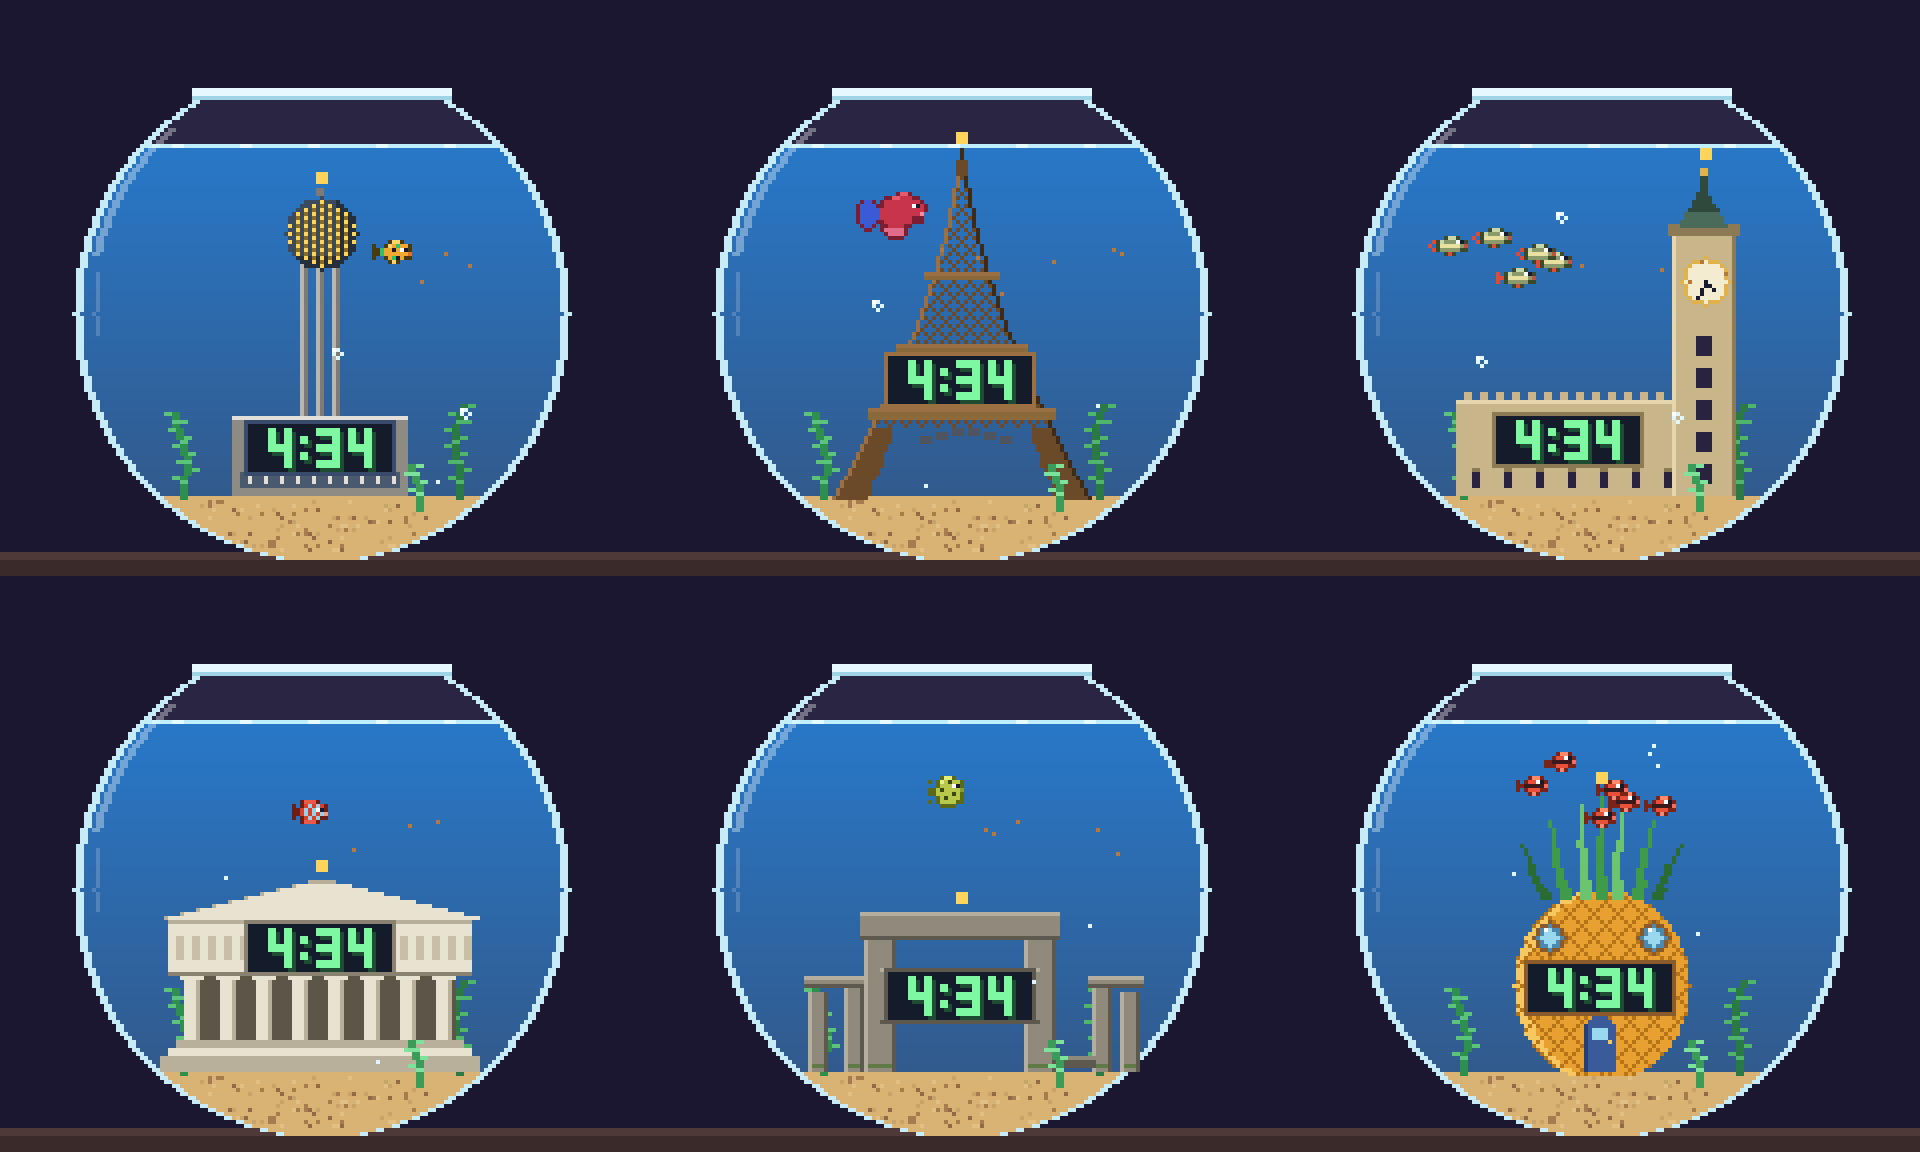
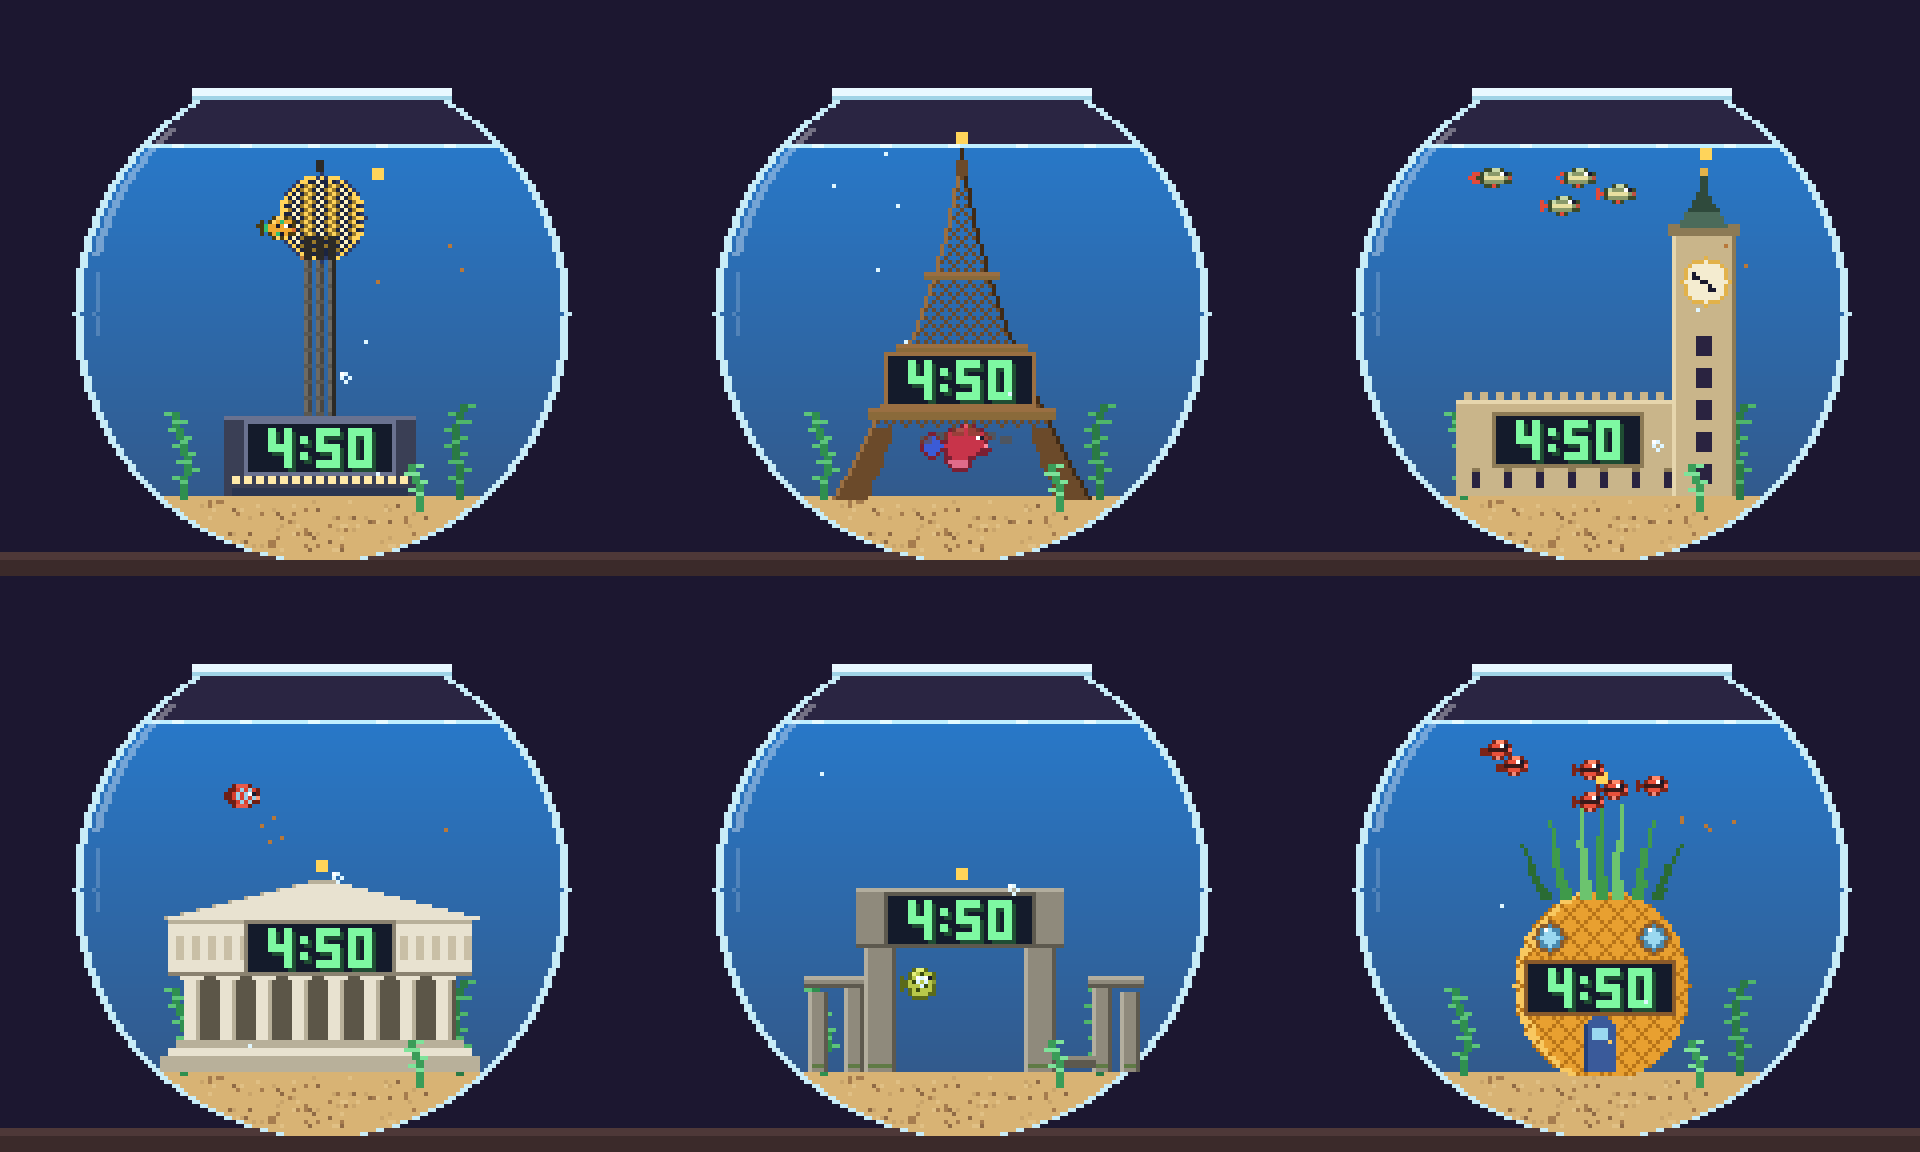
feat: Reunion Tower redrawn from photo; fish swim through open structures (#7)
- Reunion Tower: larger geodesic ball with a dense triangular lamp net,
  three slim dark columns running up into it, lit low base with the clock
- Structure.passages: Eiffel arch + gap under Stonehenge's (now deeper,
  clock-bearing) lintel; AI targets a passage ~35% of retargets, school
  drawn behind so the edges frame the fish
- Layer switching now tests the sprite box against a per-structure pixel
  occupancy mask instead of the bounding box (Eiffel box covered most of
  the bowl, fish was rarely 'clear')
- Canvas test renders each structure and asserts passages are empty pixels
- README/PLAN updated, gallery re-rendered

diff --git a/src/canvas/structures.ts b/src/canvas/structures.ts
@@ -11,6 +11,11 @@ export interface Structure {
   id: StructureId;
   /** Rectangle the fish treats as "the structure" for layer switching. */
   bounds: Box;
+  /**
+   * Open spaces inside the structure (an arch, a gap between stones) that the fish is
+   * invited to swim through. Drawn "behind" the structure so the edges frame it.
+   */
+  passages?: Box[];
   draw(ctx: CanvasRenderingContext2D, now: Date, fmt: TimeFormat): void;
 }
 
@@ -21,28 +26,43 @@ const clockBox = (y: number, x = CX - CLOCK_W / 2): Box => ({ x, y, w: CLOCK_W, 
 // ---------------------------------------------------------------- Reunion Tower (Dallas)
 const reunionTower: Structure = {
   id: "reunionTower",
-  bounds: { x: 58, y: 48, w: 44, h: 76 },
+  bounds: { x: 56, y: 42, w: 48, h: 82 },
   draw(ctx, now, fmt) {
-    const C = { concrete: "#b9b6b0", concreteD: "#7e7b76", concreteL: "#e2dfd8", ball: "#3b4a5c", ballD: "#26303d", led: "#ffd45a", ledDim: "#8a6c1e", base: "#8e8a84", glassBase: "#4a5a6e" };
-    // plaza base (clock lives here)
-    rect(ctx, 58, 104, 44, SAND_Y - 104, C.base);
-    rect(ctx, 58, 104, 44, 1, C.concreteL);
-    rect(ctx, 60, 118, 40, 4, C.glassBase);
-    for (let x = 62; x < 100; x += 4) rect(ctx, x, 119, 1, 2, C.concreteL);
-    // three concrete columns
-    for (const x of [75, 79, 83]) {
-      rect(ctx, x, 64, 2, 40, C.concrete);
-      rect(ctx, x + 1, 64, 1, 40, C.concreteD);
+    const C = {
+      shaft: "#4a4640", shaftL: "#6e6a62", shaftD: "#2c2a26", band: "#5c5850",
+      ball: "#1b2440", ballEdge: "#2c3a66", lamp: "#fff3c2", lampGold: "#ffd45a", lampDim: "#9a7a2a",
+      base: "#3a3f55", baseL: "#6a7290", win: "#ffe9a8", winDim: "#8a7a50", glass: "#2a3550",
+    };
+    // low hotel/convention base — the clock lives in its facade
+    rect(ctx, 56, 104, 48, SAND_Y - 104, C.base);
+    rect(ctx, 56, 104, 48, 1, C.baseL);
+    for (let x = 58; x < 102; x += 3) rect(ctx, x, 119, 2, 2, (x / 3) % 2 ? C.win : C.winDim); // lit windows
+    rect(ctx, 58, 122, 44, 2, C.glass);
+    // three slender columns, close together, with horizontal banding
+    const cols = [76, 79, 82];
+    const shaftTop = 56;
+    for (const x of cols) {
+      rect(ctx, x, shaftTop, 2, 104 - shaftTop, C.shaft);
+      rect(ctx, x, shaftTop, 1, 104 - shaftTop, C.shaftL);
+      for (let y = shaftTop + 3; y < 104; y += 4) rect(ctx, x, y, 2, 1, C.band);
     }
-    // the ball: dark sphere with a lattice of lit points
-    const bx = CX, by = 58, r = 9;
+    rect(ctx, cols[2] + 1, shaftTop, 1, 104 - shaftTop, C.shaftD);
+    // the ball: a dark sphere wrapped in a geodesic net of warm lamps
+    const bx = CX, by = 54, r = 11;
     disc(ctx, bx, by, r, C.ball);
-    disc(ctx, bx, by, r, C.ballD, (x, y) => x > bx + 3 || y > by + 5);
-    disc(ctx, bx, by, r, C.led, (x, y) => (x + 2 * y) % 4 === 0 && Math.hypot(x - bx, y - by) < r - 0.5);
-    disc(ctx, bx, by, r, C.ledDim, (x, y) => (x + 2 * y) % 4 === 2 && Math.hypot(x - bx, y - by) < r - 1.5);
-    rect(ctx, bx - 1, by - r - 2, 2, 2, C.concreteD); // antenna stub
-    const meridiem = drawClockPanel(ctx, clockBox(106), now, fmt);
-    drawMeridiemPip(ctx, bx, by - r - 5, meridiem, C.ballD);
+    disc(ctx, bx, by, r, C.ballEdge, (x, y) => Math.hypot(x - bx, y - by) > r - 1.2);
+    // lamp net: a dense triangular lattice (3px pitch, every other row staggered) like the real geodesic frame
+    const lattice = (x: number, y: number) => ((y - by) % 2 === 0 ? (x - bx + 300) % 3 === 0 : (x - bx + 301) % 3 === 0);
+    disc(ctx, bx, by, r, C.lamp, (x, y) => lattice(x, y) && Math.hypot(x - bx, y - by) < r - 0.5);
+    disc(ctx, bx, by, r, C.lampGold, (x, y) => lattice(x, y) && (x + y) % 2 === 1 && Math.hypot(x - bx, y - by) < r - 0.5);
+    disc(ctx, bx, by, r, C.lampDim, (x, y) => !lattice(x, y) && (x + y) % 2 === 0 && Math.hypot(x - bx, y - by) < r - 2);
+    // edge lamps so the silhouette sparkles
+    disc(ctx, bx, by, r, C.lampGold, (x, y) => { const d = Math.hypot(x - bx, y - by); return d > r - 1.2 && (x + y) % 2 === 0; });
+    // columns continue up into the lower part of the ball
+    for (const x of cols) rect(ctx, x, by + 5, 2, r - 5, C.shaftD);
+    rect(ctx, bx - 1, by - r - 3, 2, 3, C.shaftD); // mast
+    const meridiem = drawClockPanel(ctx, clockBox(106), now, fmt, C.baseL);
+    drawMeridiemPip(ctx, bx + r + 3, by - r, meridiem, "#1c1730");
   },
 };
 
@@ -50,6 +70,7 @@ const reunionTower: Structure = {
 const eiffelTower: Structure = {
   id: "eiffelTower",
   bounds: { x: 48, y: 40, w: 64, h: 84 },
+  passages: [{ x: 64, y: 108, w: 32, h: 14 }], // the open arch between the legs
   draw(ctx, now, fmt) {
     const C = { iron: "#6b4a2a", ironL: "#9a6f42", ironD: "#3f2a16", deck: "#8a6a3a" };
     const top = 44, bottom = SAND_Y;
@@ -173,7 +194,8 @@ const parthenon: Structure = {
 // ---------------------------------------------------------------- Stonehenge (Wiltshire)
 const stonehenge: Structure = {
   id: "stonehenge",
-  bounds: { x: 42, y: 80, w: 76, h: 44 },
+  bounds: { x: 40, y: 78, w: 80, h: 46 },
+  passages: [{ x: 65, y: 94, w: 30, h: 28 }], // between the two big uprights
   draw(ctx, now, fmt) {
     const C = { stone: "#8f8a7c", stoneL: "#b3ae9e", stoneD: "#5d594e", moss: "#5f7a45" };
     const upright = (x: number, top: number, w: number) => {
@@ -192,12 +214,11 @@ const stonehenge: Structure = {
     upright(113, 102, 5); upright(120, 104, 5); lintel(112, 100, 14, 3);
     // fallen stone
     rect(ctx, 104, 120, 10, 3, C.stoneD); rect(ctx, 104, 120, 10, 1, C.stone);
-    // central trilithon — the clock is carved into a flat altar stone between the uprights
-    upright(56, 90, 8); upright(96, 90, 8);
-    lintel(55, 84, 50, 7);
-    lintel(60, 98, 40, 14); // altar stone
-    const meridiem = drawClockPanel(ctx, clockBox(99), now, fmt, C.stoneD);
-    drawMeridiemPip(ctx, CX, 80, meridiem, "#1c1730");
+    // central trilithon — wide open underneath; the clock is carved into a deep lintel
+    upright(56, 92, 8); upright(96, 92, 8);
+    lintel(54, 78, 52, 15);
+    const meridiem = drawClockPanel(ctx, clockBox(80), now, fmt, C.stoneD);
+    drawMeridiemPip(ctx, CX, 74, meridiem, "#1c1730");
   },
 };
 

diff --git a/src/canvas/engine.ts b/src/canvas/engine.ts
@@ -73,6 +73,9 @@ export class FishEngine {
   private gravel: { x: number; y: number; c: string }[] = [];
   private dirtSpecks: { x: number; y: number; ph: number }[] = [];
   private cleanFlash = 0;
+  /** 1 = a painted structure pixel. Built per structure; what "overlaps the structure" really means. */
+  private mask = new Uint8Array(W * H);
+  private maskFor: StructureId | null = null;
 
   constructor(canvas: HTMLCanvasElement) {
     canvas.width = W; canvas.height = H;
@@ -98,6 +101,17 @@ export class FishEngine {
     const speciesChanged = i.species !== this.inputs.species;
     this.inputs = i;
     if (speciesChanged) this.spawnSchool(i.species);
+    if (this.maskFor !== i.structure) this.buildMask(i.structure);
+  }
+
+  /** Render the structure alone and keep its alpha as an occupancy mask (the next frame overwrites the canvas anyway). */
+  private buildMask(id: StructureId) {
+    const ctx = this.ctx;
+    ctx.clearRect(0, 0, W, H);
+    STRUCTURE_REGISTRY[id].draw(ctx, new Date(), this.inputs.timeFormat);
+    const data = ctx.getImageData(0, 0, W, H).data;
+    for (let i = 0; i < W * H; i++) this.mask[i] = data[i * 4 + 3] > 0 ? 1 : 0;
+    this.maskFor = id;
   }
 
   /** (Re)create the fish for a species — one leader plus followers if it schools. */
@@ -172,12 +186,17 @@ export class FishEngine {
     }
     return [BOWL.cx, BOWL.cy];
   }
-  /** True if any fish in the school touches the structure's bounds (so the layer never pops mid-structure). */
+  /** True if any fish in the school sits over a painted structure pixel (so a layer flip never pops). */
   private overlapsStructure(): boolean {
-    const b = STRUCTURE_REGISTRY[this.inputs.structure].bounds;
+    if (this.maskFor !== this.inputs.structure) this.buildMask(this.inputs.structure);
     const fr = this.sprite.frames[0];
     const fw = spriteWidth(fr), fh = spriteHeight(fr);
-    return this.fishes.some((f) => f.x + fw / 2 > b.x && f.x - fw / 2 < b.x + b.w && f.y + fh / 2 > b.y && f.y - fh / 2 < b.y + b.h);
+    return this.fishes.some((f) => {
+      const x0 = Math.max(0, Math.floor(f.x - fw / 2) - 1), x1 = Math.min(W - 1, Math.ceil(f.x + fw / 2) + 1);
+      const y0 = Math.max(0, Math.floor(f.y - fh / 2) - 2), y1 = Math.min(H - 1, Math.ceil(f.y + fh / 2) + 2);
+      for (let y = y0; y <= y1; y++) for (let x = x0; x <= x1; x++) if (this.mask[y * W + x]) return true;
+      return false;
+    });
   }
 
   private update(dt: number) {
@@ -201,10 +220,25 @@ export class FishEngine {
       f.retargetIn -= dt;
       const arrived = Math.hypot(f.tx - f.x, f.ty - f.y) < 4;
       if (f.retargetIn <= 0 || arrived) {
-        [f.tx, f.ty] = this.randomTarget();
-        f.retargetIn = dashing ? rand(0.6, 1.2) : rand(2.5, 6);
-        // Decide layer only when the whole school is clear of the structure so it never pops.
-        if (!this.overlapsStructure()) for (const s of this.fishes) s.layer = Math.random() < 0.45 ? "behind" : "front";
+        const clear = !this.overlapsStructure();
+        const passages = STRUCTURE_REGISTRY[this.inputs.structure].passages;
+        const fr = this.sprite.frames[0];
+        const fw = spriteWidth(fr), fh = spriteHeight(fr);
+        // Open structures: about a third of the time, swim through an opening (always drawn behind
+        // the structure so its edges frame the fish). Only when the school is clear or already behind, so it never pops.
+        const allBehind = this.fishes.every((s) => s.layer === "behind");
+        const through = passages?.length && (clear || allBehind) && !dashing && Math.random() < 0.35
+          ? passages[Math.floor(Math.random() * passages.length)] : null;
+        if (through && through.w >= fw && through.h >= fh) {
+          f.tx = rand(through.x + fw / 2, through.x + through.w - fw / 2);
+          f.ty = rand(through.y + fh / 2, through.y + through.h - fh / 2);
+          f.retargetIn = rand(3, 6);
+          for (const s of this.fishes) s.layer = "behind";
+        } else {
+          [f.tx, f.ty] = this.randomTarget();
+          f.retargetIn = dashing ? rand(0.6, 1.2) : rand(2.5, 6);
+          if (clear) for (const s of this.fishes) s.layer = Math.random() < 0.45 ? "behind" : "front";
+        }
       }
     }
     // Followers aim at their slot beside the leader (with a little wobble so the school breathes).

diff --git a/src/canvas/__tests__/structures.test.ts b/src/canvas/__tests__/structures.test.ts
@@ -1,0 +1,24 @@
+import { describe, expect, test } from "bun:test";
+import { createCanvas } from "@napi-rs/canvas";
+import { STRUCTURE_REGISTRY } from "../structures";
+import { STRUCTURES } from "../../game/catalog";
+
+const paintedShare = (id: keyof typeof STRUCTURE_REGISTRY, box: { x: number; y: number; w: number; h: number }) => {
+  const c = createCanvas(160, 144);
+  const ctx = c.getContext("2d") as unknown as CanvasRenderingContext2D;
+  STRUCTURE_REGISTRY[id].draw(ctx, new Date(2026, 0, 1, 10, 30), "12h");
+  const px = (ctx as unknown as { getImageData(x: number, y: number, w: number, h: number): { data: Uint8ClampedArray } }).getImageData(box.x, box.y, box.w, box.h).data;
+  let painted = 0;
+  for (let i = 3; i < px.length; i += 4) if (px[i] > 0) painted++;
+  return painted / (px.length / 4);
+};
+
+describe("structure rendering", () => {
+  test("declared passages are really open (≤10% painted); every structure paints inside its bounds", () => {
+    for (const s of STRUCTURES) {
+      const st = STRUCTURE_REGISTRY[s.id];
+      for (const p of st.passages ?? []) expect(paintedShare(s.id, p)).toBeLessThanOrEqual(0.1);
+      expect(paintedShare(s.id, st.bounds)).toBeGreaterThan(0.15);
+    }
+  });
+});

diff --git a/src/game/__tests__/tank.test.ts b/src/game/__tests__/tank.test.ts
@@ -82,3 +82,20 @@ describe("storage", () => {
     expect(isStructureId("castle")).toBe(true);
   });
 });
+
+describe("passages", () => {
+  test("open structures declare passages inside their bounds, big enough for a goldfish", () => {
+    for (const id of ["eiffelTower", "stonehenge"] as const) {
+      const { bounds: b, passages } = STRUCTURE_REGISTRY[id];
+      expect(passages?.length).toBeGreaterThan(0);
+      for (const p of passages!) {
+        expect(p.x).toBeGreaterThanOrEqual(b.x);
+        expect(p.x + p.w).toBeLessThanOrEqual(b.x + b.w);
+        expect(p.y).toBeGreaterThanOrEqual(b.y);
+        expect(p.y + p.h).toBeLessThanOrEqual(b.y + b.h);
+        expect(p.w).toBeGreaterThanOrEqual(16);
+        expect(p.h).toBeGreaterThanOrEqual(10);
+      }
+    }
+  });
+});

diff --git a/README.md b/README.md
@@ -67,14 +67,15 @@ src/
 - **Decay** (per real hour): Full −6, Happy −4, Clean −2.5. Full → empty ≈ 16 h.
 - **Actions**: Feed +28 full · Play +24 happy · Clean +40 clean (with small side effects and 6/10/15 s cooldowns, enforced in state, not just the UI).
 - **Mood** is derived from stats, never stored: sad → dirty → hungry → bored → sleepy → content.
-- The fish picks random waypoints inside the water, chases food when you feed it, and switches between swimming **behind** and **in front of** the structure only when it's clear of it (so it never pops).
+- The fish picks random waypoints inside the water, chases food when you feed it, and switches between swimming **behind** and **in front of** the structure only when none of its pixels sit over a painted structure pixel (the engine keeps an occupancy mask per structure), so it never pops.
+- **Open structures have passages.** The Eiffel Tower's arch and the gap under Stonehenge's lintel are declared as `passages`; about a third of the time the fish (or the whole school) deliberately swims through one, drawn behind the structure so the edges frame it. A test renders each structure and checks the passages really are empty pixels.
 - **Species flavor** is light on purpose: a speed multiplier (Betta 0.75× … Endler 1.35×) and a school size (Chili Rasbora ×6, White Cloud ×5 — followers trail a leader that runs the normal AI). Decay, actions and moods are identical for every species; moods tint each species' own palette instead of recolouring it orange.
 - **Structures** are drawn procedurally and all stand on the sand with the same 36×12 clock panel in their lower half, so the time is always in the same place regardless of what's above it.
 
 ## Adding a structure or a fish
 
 1. Add the id to `StructureId` / `SpeciesId` in `src/game/types.ts` and an entry in `src/game/catalog.ts` (label, emoji, blurb; species also get `speed` + `school`).
-2. Structure: add a `Structure` to `src/canvas/structures.ts` — draw with `rect`/`disc`, call `drawClockPanel` for the clock (36×12, keep it below y≈110) and `drawMeridiemPip` for AM/PM, and set `bounds` (bottom must be the sand line, y = 124).
+2. Structure: add a `Structure` to `src/canvas/structures.ts` — draw with `rect`/`disc`, call `drawClockPanel` for the clock (36×12, keep it below y≈110) and `drawMeridiemPip` for AM/PM, and set `bounds` (bottom must be the sand line, y = 124). If it has an opening at least 16×10 px, list it in `passages` and the fish will swim through it.
 3. Fish: add a `SpeciesSprite` to `src/canvas/sprites.ts` — right-facing frames using the shared palette letters, plus the `eye` and `mouth` pixel positions used by the mood overlays.
 4. `bun test` checks the registries line up, sprites are rectangular, and structures fit the bowl. `bun run snapshot` shows you the result without a browser.
 

diff --git a/docs/PLAN.md b/docs/PLAN.md
@@ -27,3 +27,4 @@
 - **Schools.** `FishEngine` keeps `fishes[]`; `fishes[0]` runs the existing AI and followers steer to an offset slot beside it. Layer switching waits until the *whole* school is clear of the structure.
 - **Schema v2.** `GameState` gained `structure` + `species`; v1 saves load as goldfish + castle. Changing species goes through `newFish()` — stats/name/age reset, structure and clock format carry over. Structure changes are pure cosmetics.
 - **One tabbed panel** (Care / Tank / Settings) replaced the two stacked Care + Settings panels so the pickers sit where Feed / Play / Clean already were.
+- **Passages + pixel mask (follow-up).** Layer switching originally used the structure's bounding box; for the Eiffel Tower that box covers most of the lower bowl, so the fish was almost never "clear" and rarely got to swim through the arch. The engine now renders the structure once to an occupancy mask and tests the fish's sprite box against painted pixels. Open structures declare `passages`; the AI targets one ~35% of retargets and forces the school behind. Stonehenge was reshaped (deep lintel holds the clock, nothing under it) so there is a real gap to swim through. Reunion Tower was redrawn from a reference photo: bigger, denser lamp-net ball on three slim dark columns that run up into it.
